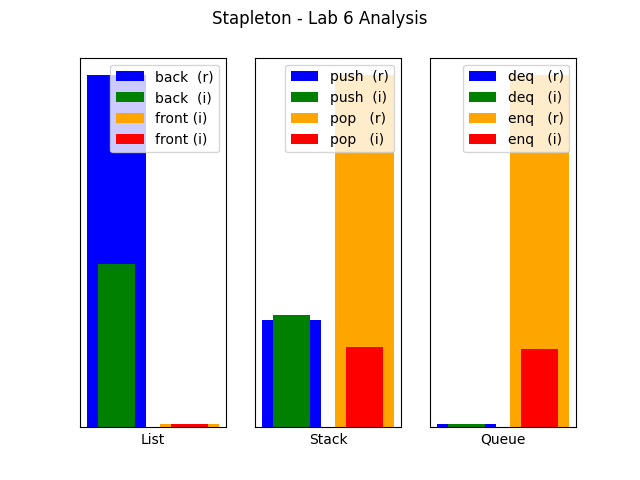
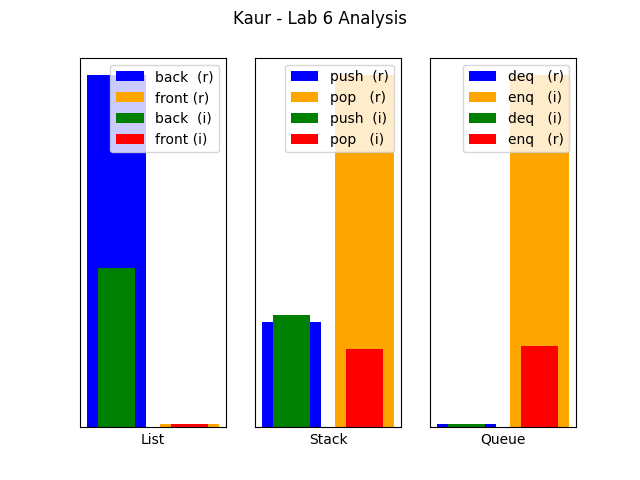
Lab 6

diff --git a/d_analysis.py b/d_analysis.py
@@ -16,7 +16,7 @@ import c_iterative_queue as Queue_iter
 import c_recursive_queue as Queue_rec
 
 # PLOT CONFIG
-plt.suptitle('Stapleton - Lab 6 Analysis')
+plt.suptitle('Kaur - Lab 6 Analysis')
 
 # CONSTANTS
 N_TRIALS = 100  # TODO run on 20 trials
@@ -319,8 +319,8 @@ plt.xlabel('List')
 plt.xticks([])
 plt.yticks([])
 plt.bar(x = 0, height = RESULTS['back  (r)'], color = 'blue', label = 'back  (r)')
+plt.bar(x = 1, height = RESULTS['front (i)'], color = 'orange', label = 'front (r)')
 plt.bar(x = 0, height = RESULTS['back  (i)'], width = 0.5, color = 'green', label = 'back  (i)')
-plt.bar(x = 1, height = RESULTS['front (i)'], color = 'orange', label = 'front (i)')
 plt.bar(x = 1, height = RESULTS['front (r)'], width = 0.5, color = 'red', label = 'front (i)')
 plt.legend()
 
@@ -331,8 +331,8 @@ plt.xlabel('Stack')
 plt.xticks([])
 plt.yticks([])
 plt.bar(x = 0, height = RESULTS['push  (r)'], color = 'blue', label = 'push  (r)')
-plt.bar(x = 0, height = RESULTS['push  (i)'], width = 0.5, color = 'green', label = 'push  (i)')
 plt.bar(x = 1, height = RESULTS['pop   (r)'], color = 'orange', label = 'pop   (r)')
+plt.bar(x = 0, height = RESULTS['push  (i)'], width = 0.5, color = 'green', label = 'push  (i)')
 plt.bar(x = 1, height = RESULTS['pop   (i)'], width = 0.5, color = 'red', label = 'pop   (i)')
 plt.legend()
 
@@ -342,9 +342,9 @@ plt.xlabel('Queue')
 plt.xticks([])
 plt.yticks([])
 plt.bar(x = 0, height = RESULTS['deq   (r)'], color = 'blue', label = 'deq   (r)')
+plt.bar(x = 1, height = RESULTS['enq   (r)'], color = 'orange', label = 'enq   (i)')
 plt.bar(x = 0, height = RESULTS['deq   (i)'], width = 0.5, color = 'green', label = 'deq   (i)')
-plt.bar(x = 1, height = RESULTS['enq   (r)'], color = 'orange', label = 'enq   (r)')
-plt.bar(x = 1, height = RESULTS['enq   (i)'], width = 0.5, color = 'red', label = 'enq   (i)')
+plt.bar(x = 1, height = RESULTS['enq   (i)'], width = 0.5, color = 'red', label = 'enq   (r)')
 plt.legend()
 
 
